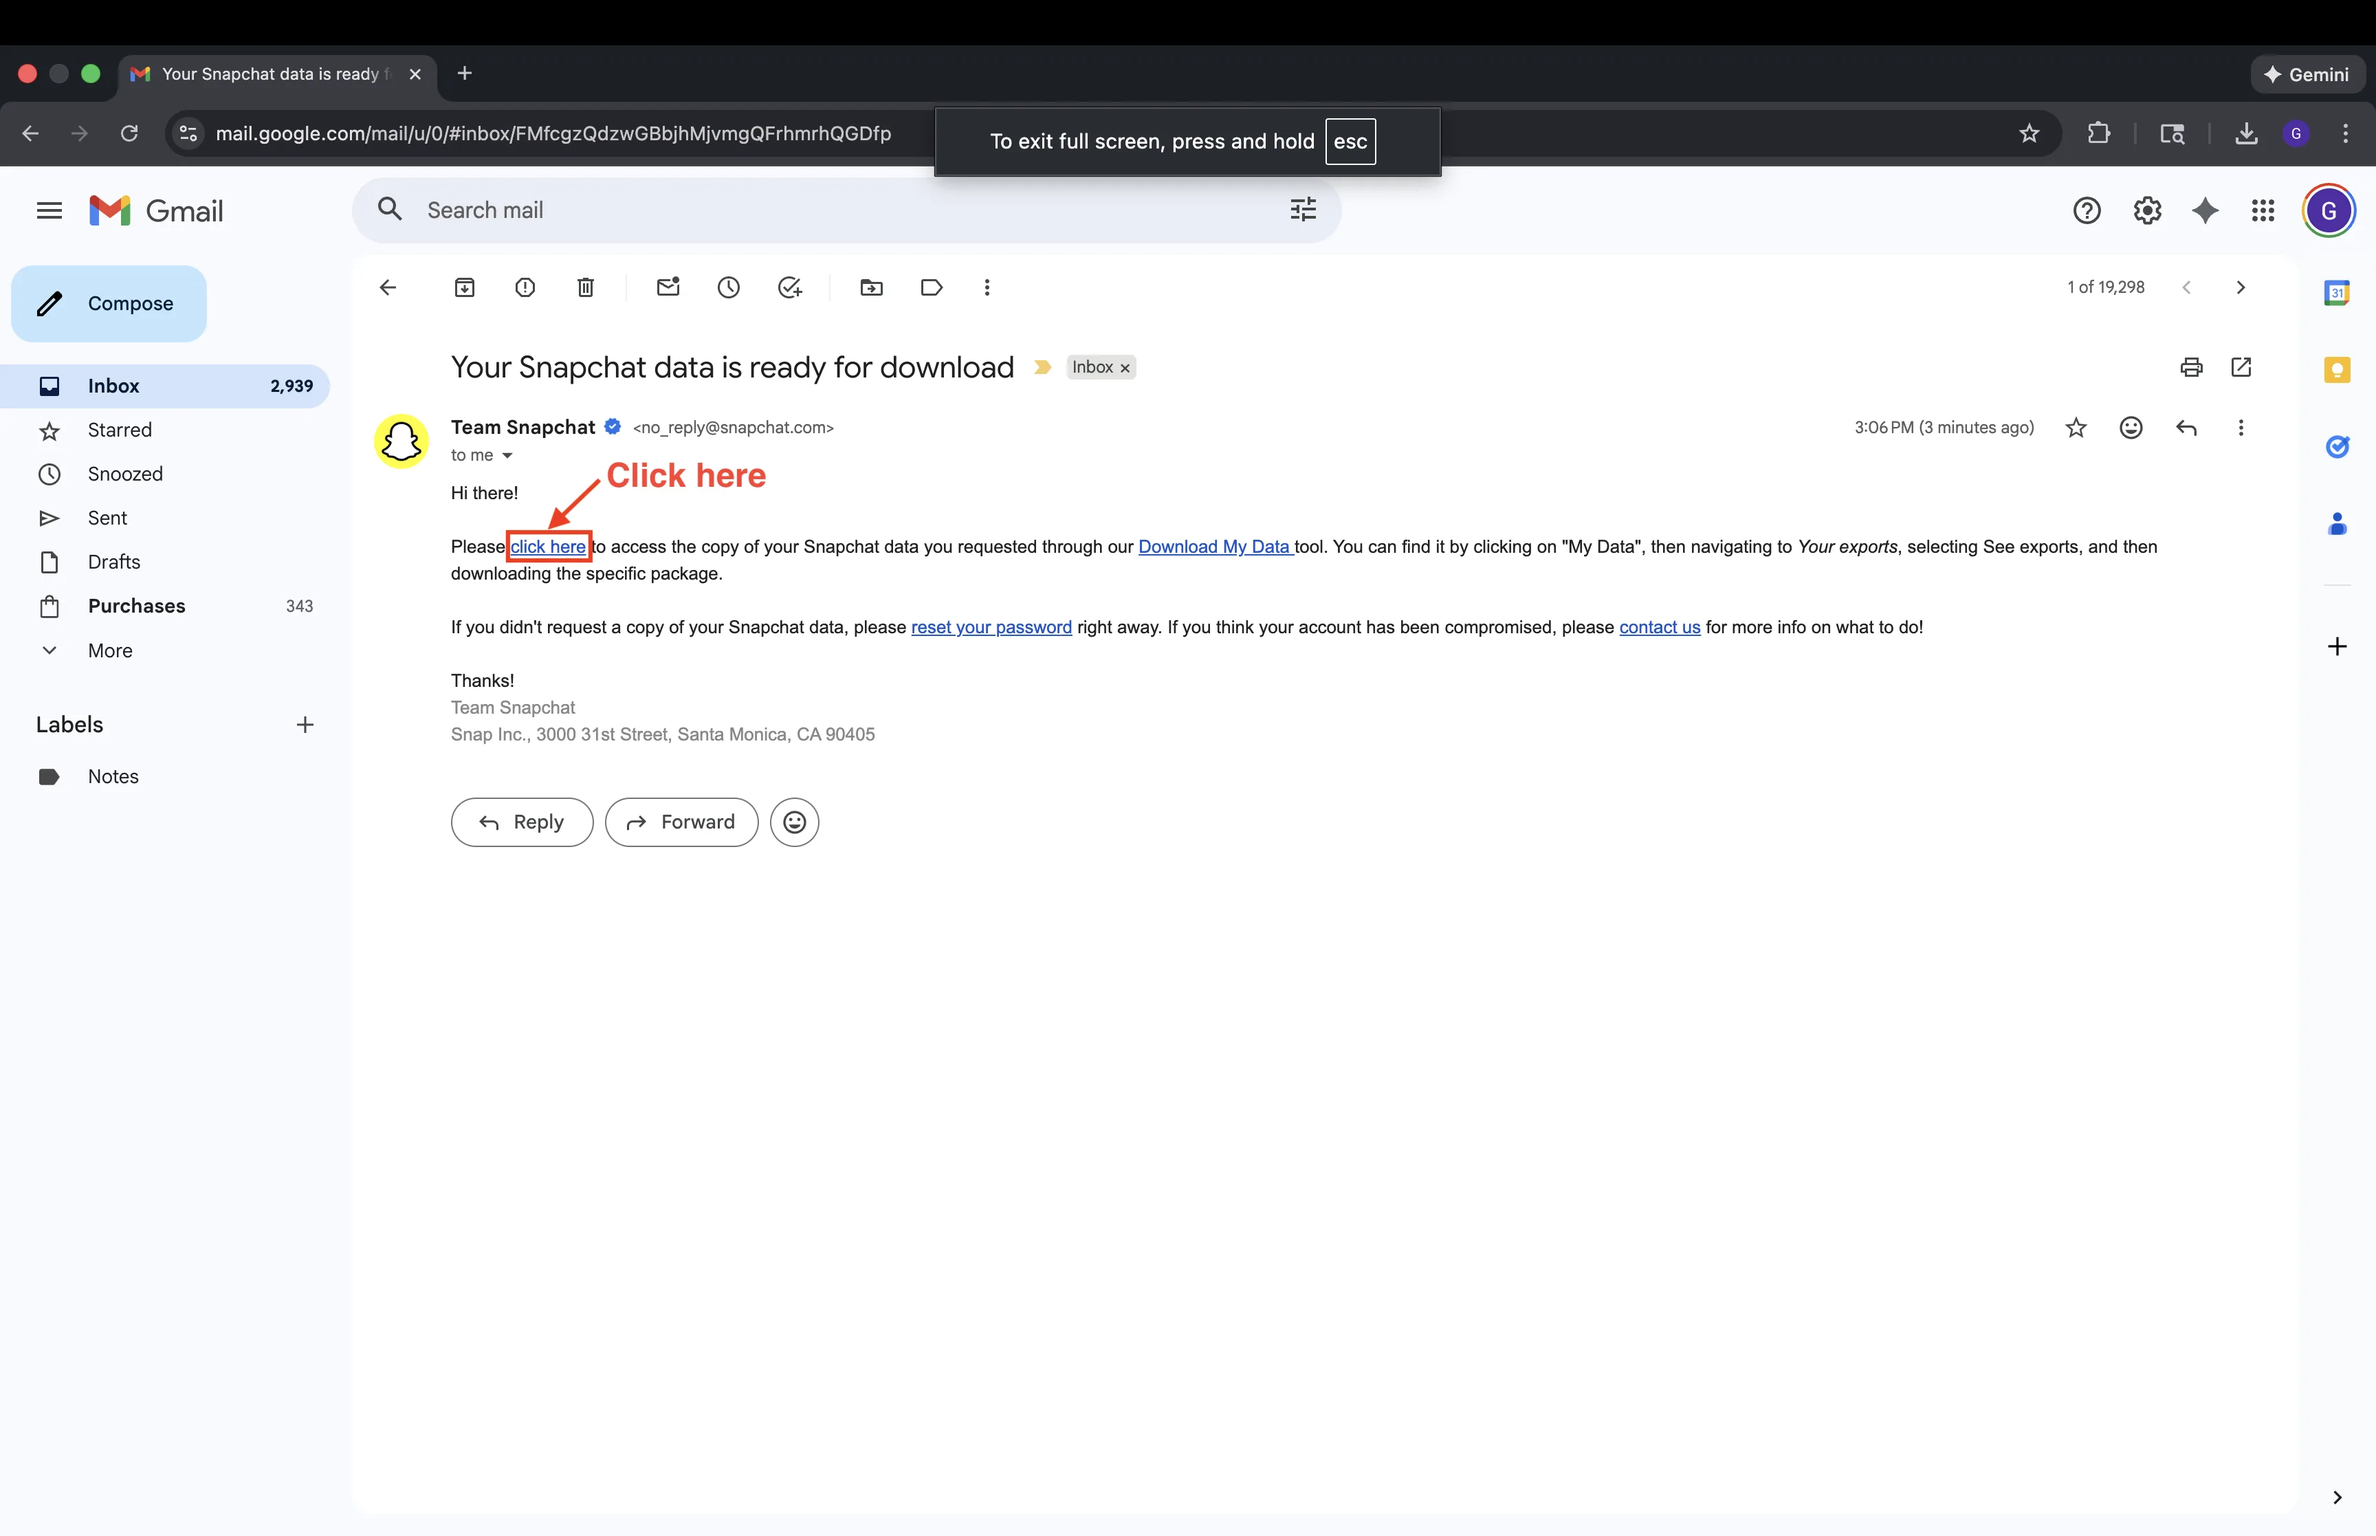
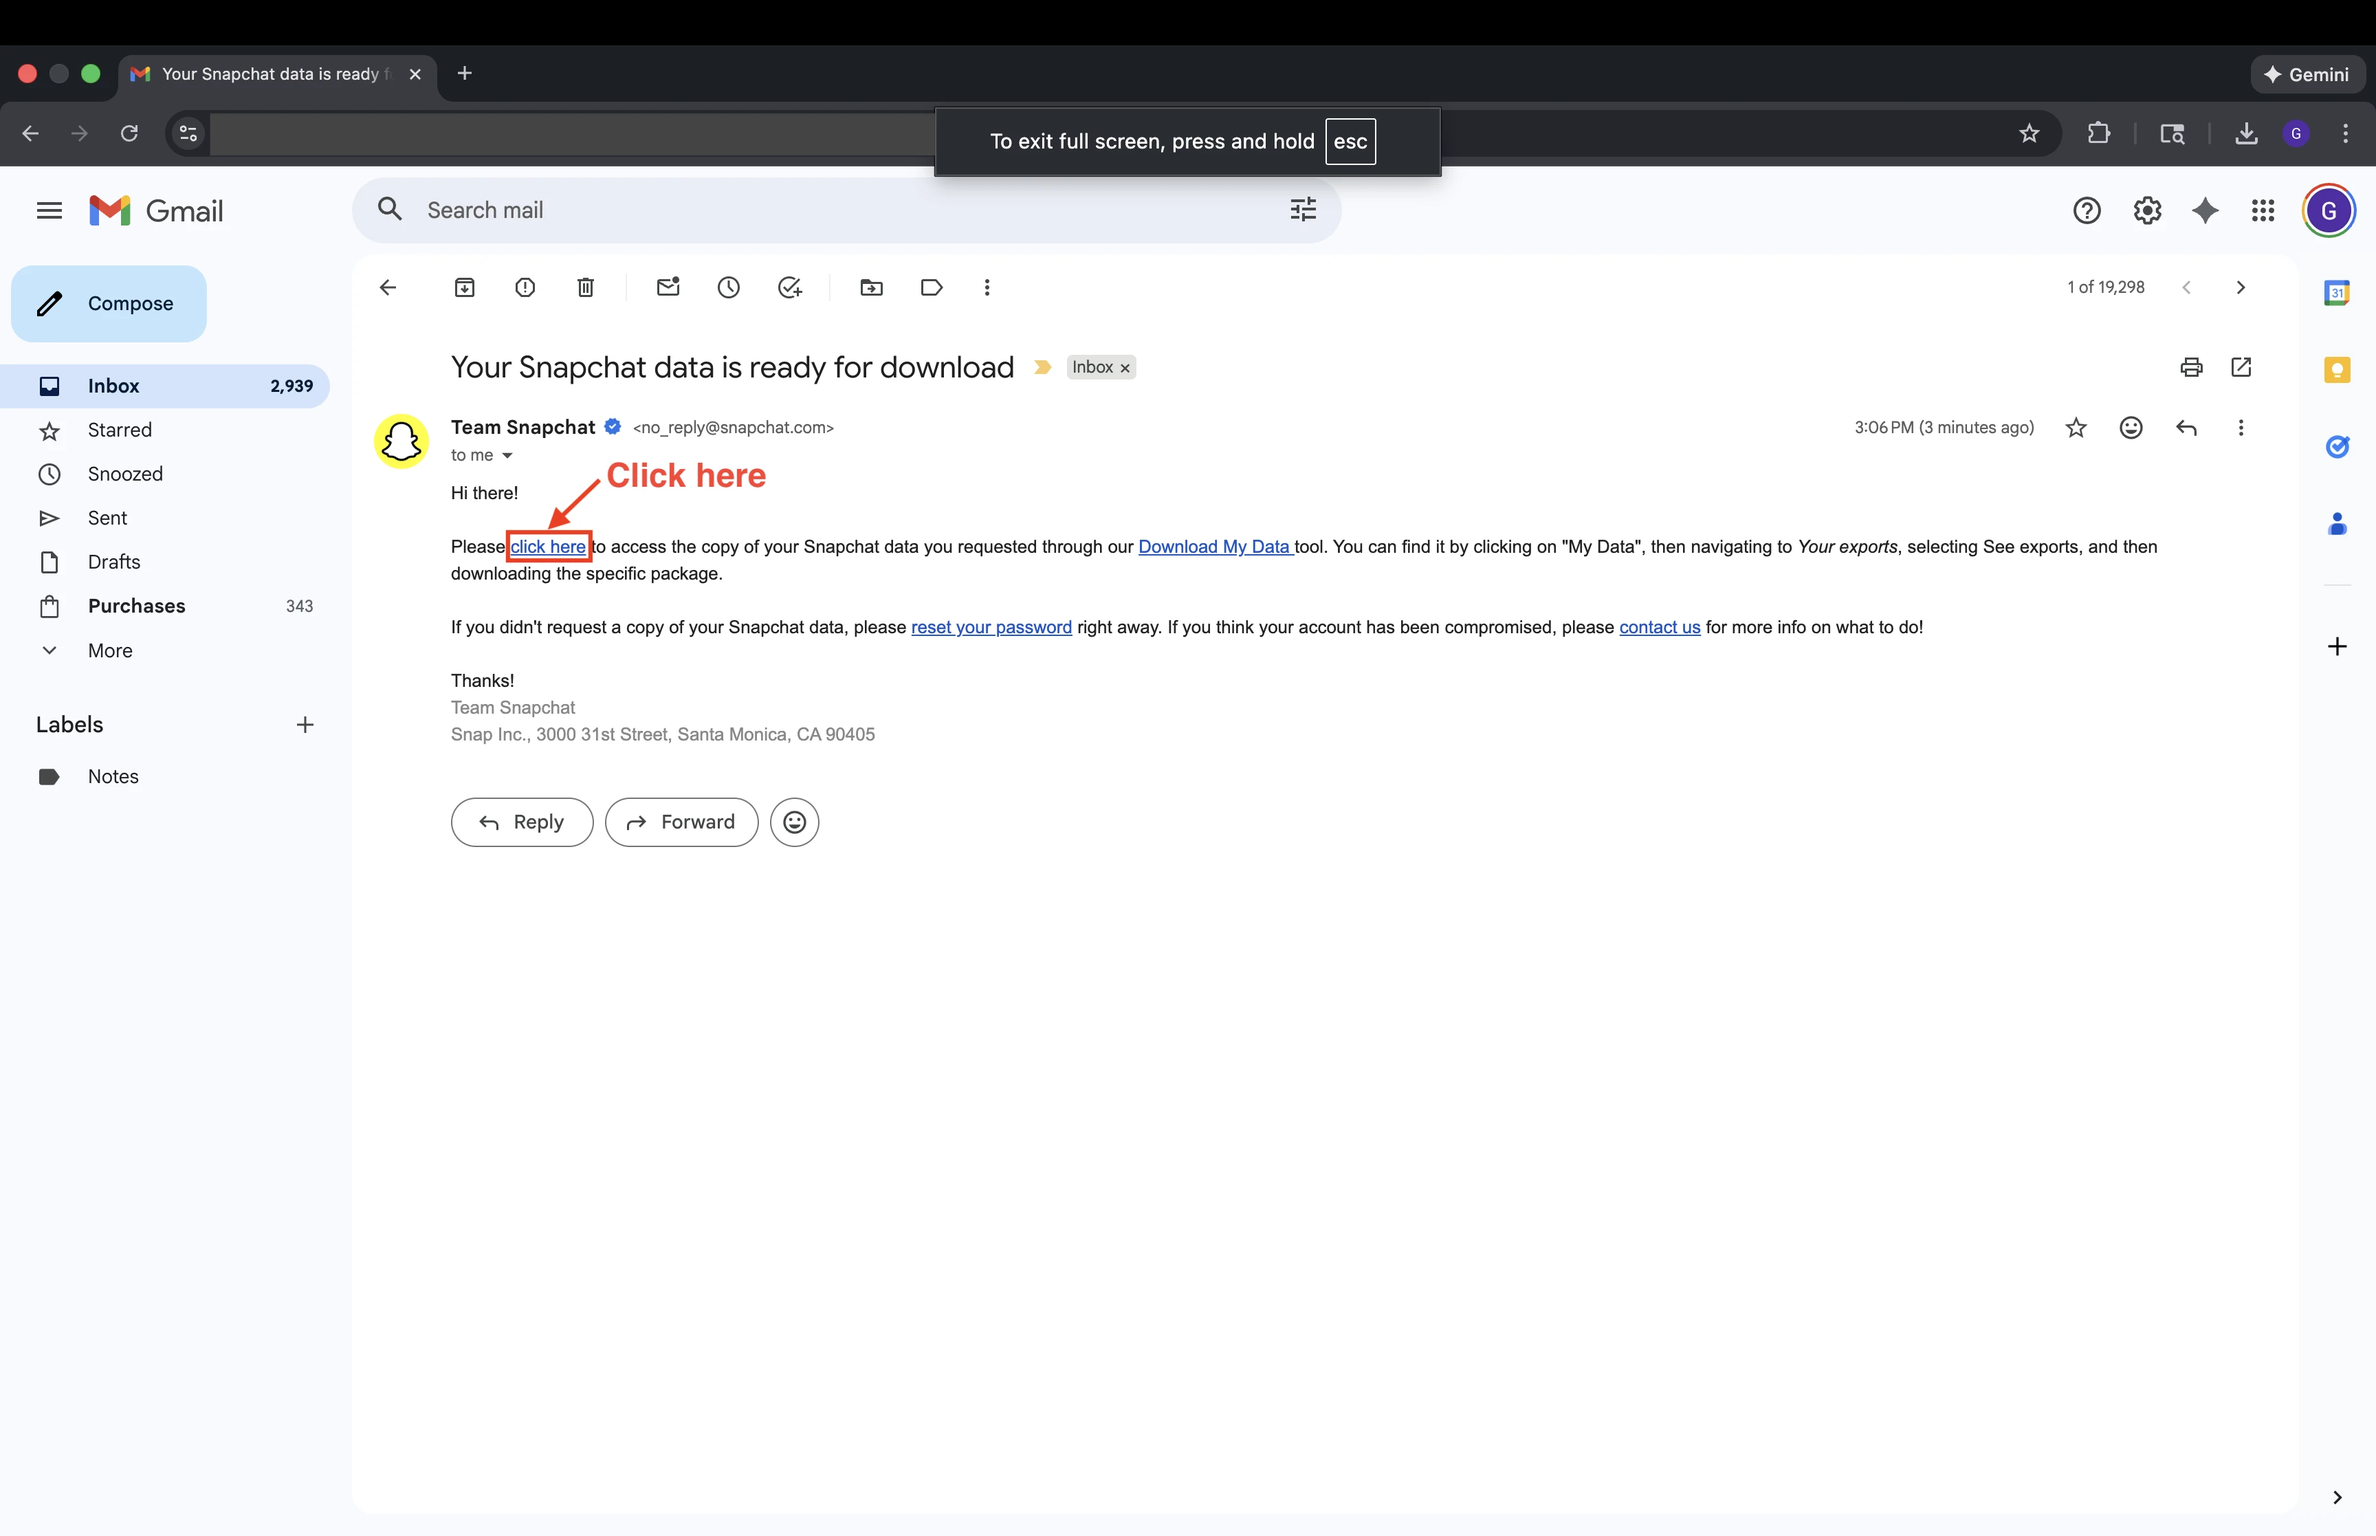
Chore: harden public website hygiene

Changed region(s): [[0.0625, 0.0618, 0.4062, 0.1235]]

diff --git a/test/free-model-content.test.js b/test/free-model-content.test.js
@@ -33,6 +33,10 @@ function read(file) {
     return fs.readFileSync(path.join(root, file), 'utf8');
 }
 
+function readBuffer(file) {
+    return fs.readFileSync(path.join(root, file));
+}
+
 test('public pages use GitHub Releases for the free Mac download', () => {
     for (const file of htmlFiles) {
         const source = read(file);
@@ -166,6 +170,62 @@ test('website license references DateBack rather than stale app names', () => {
 
     assert.ok(source.includes('The DateBack application'));
     assert.equal(source.includes('MemSavr'), false);
+});
+
+test('README points public app distribution copy at the public GitHub repo', () => {
+    const source = read('README.md');
+
+    assert.equal(source.includes('App Repository:** Private'), false);
+    assert.equal(source.includes('App Repository: Private'), false);
+    assert.ok(source.includes('https://github.com/giovanni-lunetta/dateback-releases'));
+    assert.ok(source.includes('Latest Mac release'));
+});
+
+test('public hygiene ignores generated and local-only files while keeping bundled source archives', () => {
+    const source = read('.gitignore');
+
+    for (const pattern of [
+        '*.zip',
+        '!licenses/ffmpeg-source.zip',
+        '*.dmg',
+        '*.pkg',
+        '*.sqlite',
+        '*.csv',
+        '*.har',
+        '*.webarchive',
+        '*.tmp',
+        '*.bak',
+        '*.orig',
+        'coverage/',
+        '.env*',
+        'docs/archive/',
+        '*.private.md'
+    ]) {
+        assert.match(source, new RegExp(`^${pattern.replace(/[.*+?^${}()|[\]\\]/g, '\\$&')}$`, 'm'));
+    }
+});
+
+test('repo-local website docs avoid personal local filesystem paths', () => {
+    const source = read('docs/MOBILE_TESTING_LOCAL_WEBSITE.md');
+
+    assert.equal(source.includes('/Users/'), false);
+    assert.equal(source.includes('DateBack_Business'), false);
+    assert.equal(source.includes('Business Ideas'), false);
+});
+
+test('public example image does not expose obvious EXIF device metadata', () => {
+    const bytes = readBuffer('images/example-lexi-2025.jpg');
+    const latin1 = bytes.toString('latin1');
+
+    for (const marker of [
+        'Exif',
+        'Apple',
+        'iPhone',
+        '18.6.2',
+        '2025:08:30 11:20:05'
+    ]) {
+        assert.equal(latin1.includes(marker), false, `example-lexi-2025.jpg should not include ${marker}`);
+    }
 });
 
 test('website open source license page matches current app production dependencies', () => {

diff --git a/README.md b/README.md
@@ -102,7 +102,7 @@ Found a typo or bug? Contributions are welcome!
 ## 📝 License
 
 Website code: **MIT License** (see [LICENSE](LICENSE))  
-DateBack app: Proprietary
+DateBack app builds and update metadata are distributed from the public [dateback-releases](https://github.com/giovanni-lunetta/dateback-releases) repository.
 
 ## 🔗 Links
 
@@ -110,7 +110,7 @@ DateBack app: Proprietary
 - **Download:** [Latest Mac release](https://github.com/giovanni-lunetta/dateback-releases/releases/latest)
 - **Optional support:** [Buy Me A Coffee](https://www.buymeacoffee.com/giovannilunetta)
 - **Support:** Contact form on website
-- **App Repository:** Private
+- **App Releases Repository:** [giovanni-lunetta/dateback-releases](https://github.com/giovanni-lunetta/dateback-releases)
 
 ## 🙏 Acknowledgments
 

diff --git a/docs/MOBILE_TESTING_LOCAL_WEBSITE.md b/docs/MOBILE_TESTING_LOCAL_WEBSITE.md
@@ -14,7 +14,7 @@ This guide explains how to view your local development version of the DateBack w
 Open the **Terminal** app and navigate to the website directory:
 
 ```bash
-cd /Users/giovanni-lunetta/DateBack_Business/DateBack_Website
+cd /path/to/DateBack_Website
 ```
 
 ---
